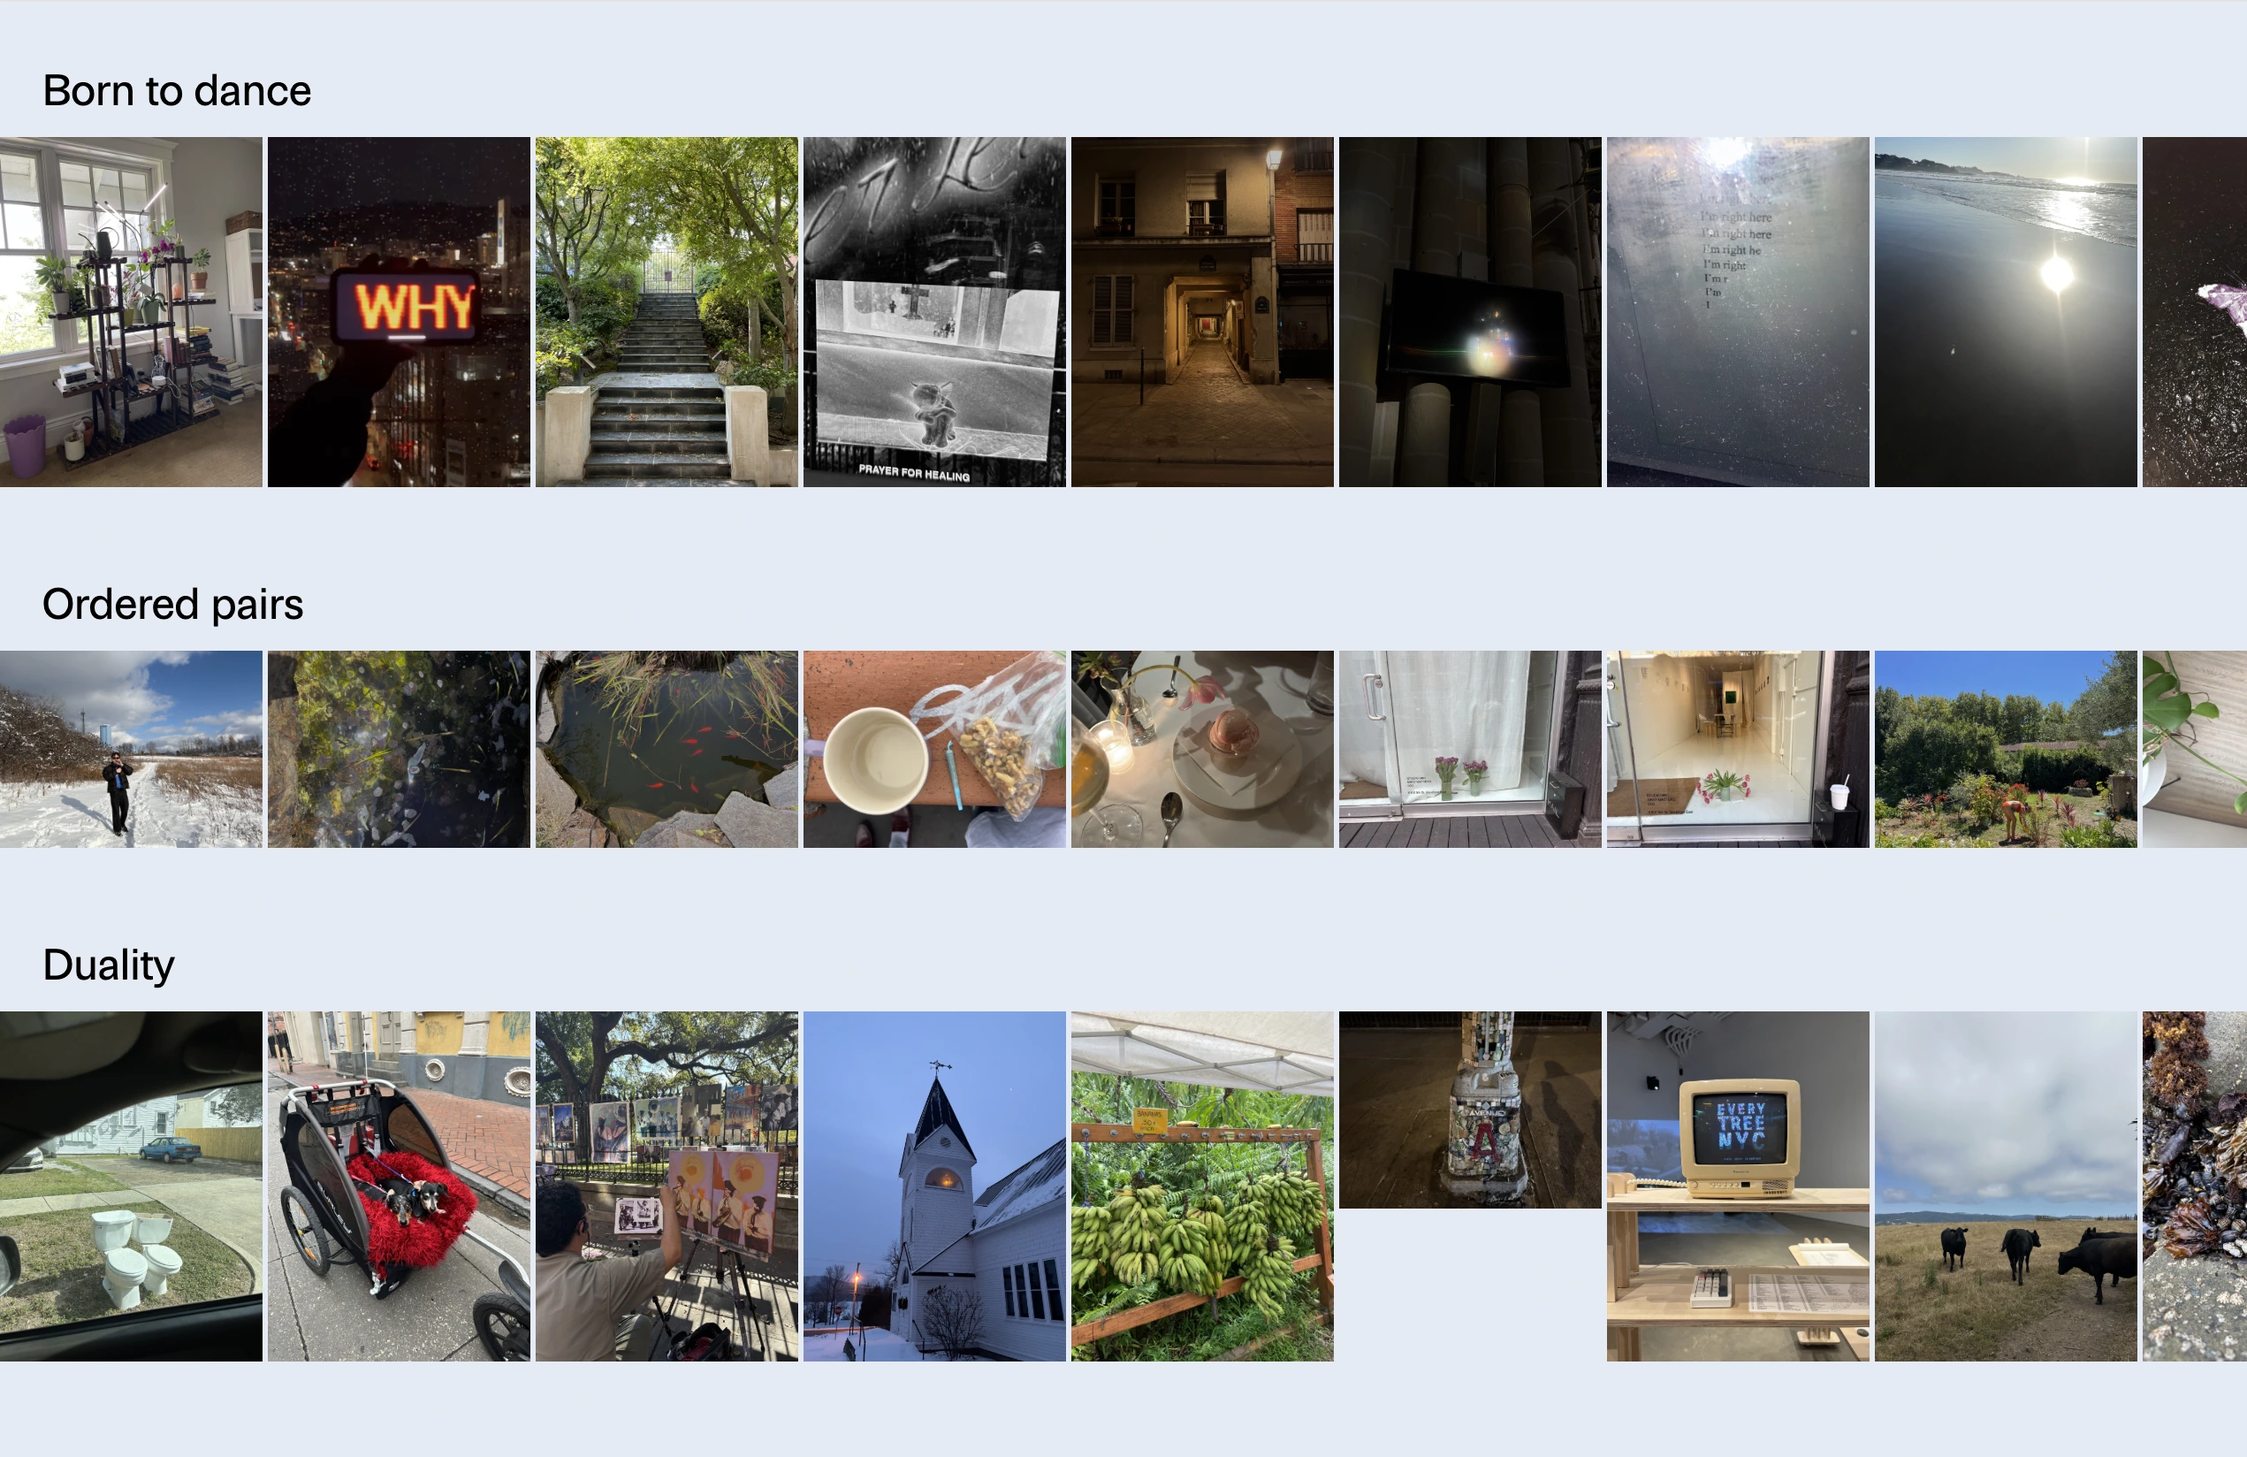
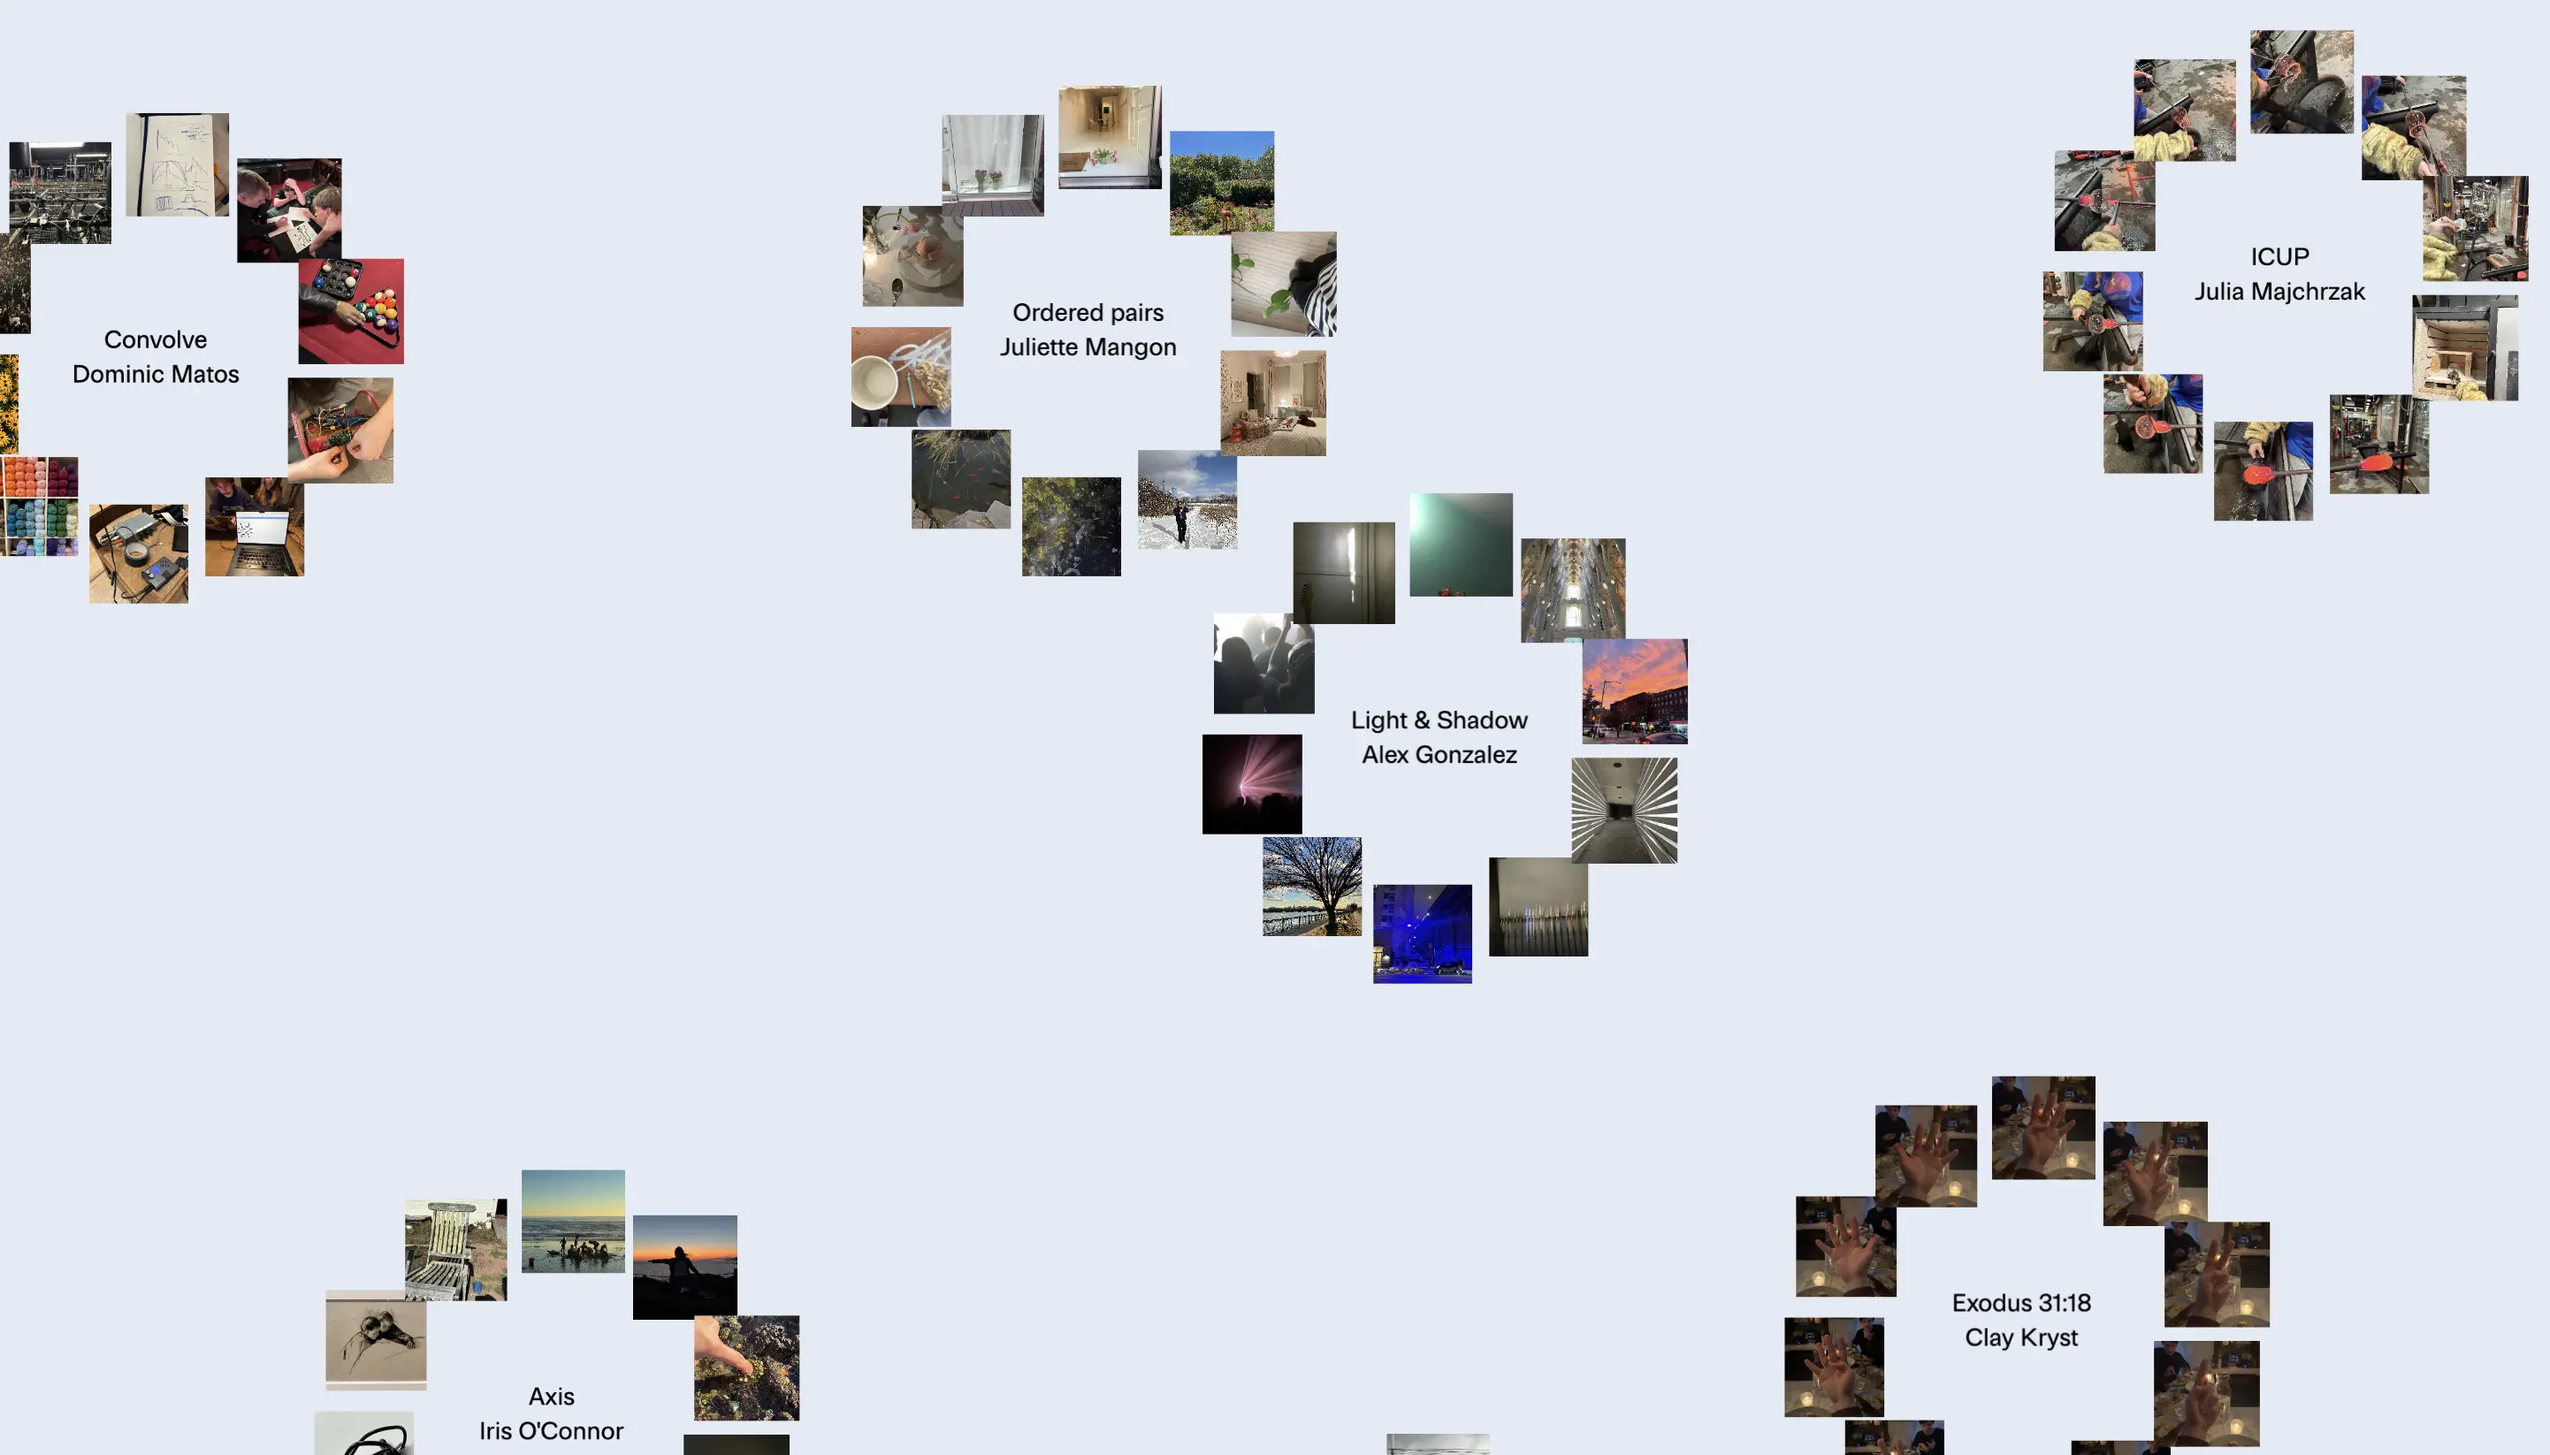
website stuff

diff --git a/media.html b/media.html
@@ -622,7 +622,6 @@
         <a href="websites.html">websites</a>
 
     <a href="paintings.html">paintings</a>
-    <a href="objects.html">objects</a>
     <a href="media.html" class="active">media</a>
 
     <a href="contact.html">contact</a>
@@ -709,7 +708,7 @@
               Ivan Pokidyshev is one of the first contemporary painters who really stuck with me. He uses thermography
               to photograph people and then translates those images into glowing painted figures. His work explores
               themes of science, life, love, and religion. Checkout his
-              instragram
+              instagram
               <a href="https://www.instagram.com/pokidyshev_art/" target="_blank"><strong>here</strong></a>.
             </div>
           </div>
@@ -726,7 +725,7 @@
               and imagination to create her work. Her paintings often feature human figures that are semi-transparent
               and abstract, blending into the surrounding space in a distinctive way.
               Just saw her exhibit at Shrine NYC!
-              Checkout her instragram
+              Checkout her instagram
               <a href="https://www.instagram.com/laurafootes/" target="_blank"><strong>here</strong></a>.
             </div>
           </div>
@@ -739,7 +738,7 @@
             <div class="media-desc">
               Her glass looking religious iconography is unreal. Also, she shares my love for neon
               green. Checkout her
-              instragram
+              instagram
               <a href="https://www.instagram.com/aunt.ag0ny/ " target="_blank"><strong>here</strong></a>.
             </div>
           </div>
@@ -779,11 +778,11 @@
           <div class="media-block">
             <div class="media-item-header" onclick="toggleMediaDesc(this)">
               <span class="media-number">10</span>
-              <span class="media-title">Urchin</span>
+              <span class="media-title">Days of Heaven</span>
               <span class="media-label">Film</span>
             </div>
             <div class="media-desc">
-              Fabulous performance by Frank Dillane. Great directorial debut for Harris Dickinson.
+              Insane. This is what I would want my movie to look like. 
             </div>
           </div>
 
@@ -809,7 +808,7 @@
               <span class="media-label">Film</span>
             </div>
             <div class="media-desc">
-              Wow I can't believe I hadn't seen this until this week. SO good.
+              Wow I can't believe I hadn't seen this. SO good.
             </div>
           </div>
 
@@ -843,12 +842,11 @@
           <div class="media-block">
             <div class="media-item-header" onclick="toggleMediaDesc(this)">
               <span class="media-number">15</span>
-              <span class="media-title">The L word Generation Q</span>
+              <span class="media-title">Hacks</span>
               <span class="media-label">TV</span>
             </div>
             <div class="media-desc">
-              Just finished this. Extremely surprised at how much I liked it. This is also criticism for the O.G. L word
-              but can we see character growth why do they keep making the same mistakes!? Good other than that.
+             Back on my list because of the new season. The lesbian episode was my favorite
             </div>
           </div>
 
@@ -892,6 +890,7 @@
           cafes
         </button>
        
+       
       </div>
 
       <div class="list-content">
@@ -912,7 +911,7 @@
         <div id="more" class="list-section">
           <div class="simple-list">
             <div class="simple-item">Finish more art</div>
-            <div class="simple-item">Cook at home</div>
+            <div class="simple-item">Be frugal</div>
             <div class="simple-item">Wake up early</div>
           </div>
         </div>
@@ -924,6 +923,17 @@
             <div class="simple-item">Call Me by Your Name (Film)</div>
             <div class="simple-item">Hacks (TV)</div>
             <div class="simple-item">Money Heist (TV)</div>
+
+          </div>
+        </div>
+        <div id="instagram" class="list-section">
+          <div class="simple-list">
+            <div class="simple-item">jujus.ootds</div>
+            <div class="simple-item"></div>
+            <div class="simple-item"></div>
+            <div class="simple-item"></div>
+            <div class="simple-item"></div>
+            <div class="simple-item"></div>
 
           </div>
         </div>
@@ -944,19 +954,19 @@
             <div class="in-section">
               <h2>In</h2>
               <div class="simple-list">
-                <div class="simple-item">Befriending your neighborhood</div>
-                <div class="simple-item">Statement necklaces</div>
+                <div class="simple-item">Skirts</div>
+                <div class="simple-item">Guac and pico de gallo</div>
                 <div class="simple-item">Writing your phone number on a napkin</div>
-                <div class="simple-item">Honey crisp apples</div>
-                <div class="simple-item">Individualism</div>
+                <div class="simple-item">Conversation</div>
+                <div class="simple-item">Contribution</div>
+                 <div class="simple-item">The sun</div>
               </div>
             </div>
             <div class="out-section">
               <h2>Out</h2>
               <div class="simple-list">
                 <div class="simple-item">Imported slideshow themes</div>
-                <div class="simple-item">Energy drinks</div>
-                <div class="simple-item">Talking about your dreams</div>
+                <div class="simple-item">Healthy candy</div>
                 <div class="simple-item">Selective accountability</div>
 
               </div>
@@ -982,10 +992,10 @@
               <div class="simple-list">
                 <div class="simple-item">Iced cappuccino with strawberry </div>
                 <div class="simple-item">Iced flat white with vanilla</div>
-                <div class="simple-item">Iced cortado with snickerdoodle</div>
+                <div class="simple-item">Iced cortado with snickerdoodle and whole milk</div>
                 <div class="simple-item">Iced quad shot with regular milk and honey</div>
                 <div class="simple-item">Iced cappuccino with cardamom or lavender</div>
-                <div class="simple-item">Iced flat white with cardamom</div>
+                <div class="simple-item">Iced flat white with vanilla</div>
               </div>
             </div>
           </div>
@@ -993,7 +1003,7 @@
       </div>
     </div>
     <div class="date">
-      <p class="date-text">Page last updated 5:16PM EST, April 19 2026.</p>
+      <p class="date-text">Page last updated 1:07AM EST, June 3 2026.</p>
 
     </div>
 

diff --git a/websites.html b/websites.html
@@ -400,7 +400,6 @@
         <a href="websites.html" class="active">websites</a>
 
         <a href="paintings.html">paintings</a>
-        <a href="objects.html">objects</a>
         <a href="media.html">media</a>
 
         <a href="contact.html">contact</a>
@@ -719,6 +718,54 @@
 
                     </div>
                 </li>
+                <li class="card">
+                    <div class="cardInner">
+                        <div class="cardTop">
+                            <div class="siteName">
+                                <a href="https://ineverseeyou.com/" target="_blank" rel="noopener noreferrer">
+                                    I never see you
+                                </a>
+                            </div>
+                            <div class="dates">
+                                <div class="actions">
+                                    <a class="ext" href="https://ineverseeyou.com/" target="_blank"
+                                        rel="noopener noreferrer">
+                                        Visit site
+                                        <svg class="icon" width="16" height="16" aria-hidden="true" focusable="false"
+                                            style="vertical-align: middle">
+                                            <use href="#icon-external"></use>
+                                        </svg>
+                                    </a>
+                                </div>
+                            </div>
+                        </div>
+
+                        <p class="desc">
+                            The digital exhibit for I never see you, a collective of creative individuals interested in
+                            art and technology across disciplines.
+                        </p>
+
+                        <div class="thumgrayrid" aria-label="Thumbnails">
+                            <a class="thumbLink" href="https://ineverseeyou.com/" target="_blank"
+                                rel="noopener noreferrer">
+                                <img class="thumbImg" src="assets/websites/insy-1.webp"
+                                    alt="fiftyhounds site screenshot" loading="lazy" />
+                            </a>
+                            <a class="thumbLink" href="https://ineverseeyou.com/" target="_blank"
+                                rel="noopener noreferrer">
+                                <img class="thumbImg" src="assets/websites/insy-2.webp"
+                                    alt="fiftyhounds site screenshot" loading="lazy" />
+                            </a>
+                            <a class="thumbLink" href="https://ineverseeyou.com/" target="_blank"
+                                rel="noopener noreferrer">
+                                <img class="thumbImg" src="assets/websites/insy-3.webp"
+                                    alt="fiftyhounds site screenshot" loading="lazy" />
+                            </a>
+
+                        </div>
+
+                    </div>
+                </li>
 
 
                 <li class="card">
@@ -771,49 +818,7 @@
                     </div>
                 </li>
 
-                <li class="card">
-                    <div class="cardInner">
-                        <div class="cardTop">
-                            <div class="siteName">
-                                <a href="https://ineverseeyou.com/" target="_blank" rel="noopener noreferrer">
-                                    I never see you
-                                </a>
-                            </div>
-                            <div class="dates">
-                                <div class="actions">
-                                    <a class="ext" href="https://ineverseeyou.com/" target="_blank"
-                                        rel="noopener noreferrer">
-                                        Visit site
-                                        <svg class="icon" width="16" height="16" aria-hidden="true" focusable="false"
-                                            style="vertical-align: middle">
-                                            <use href="#icon-external"></use>
-                                        </svg>
-                                    </a>
-                                </div>
-                            </div>
-                        </div>
-
-                        <p class="desc">
-                            The digital exhibit for I never see you, a collective of creative individuals interested in
-                            art and technology across disciplines.
-                        </p>
-
-                        <div class="thumgrayrid" aria-label="Thumbnails">
-                            <a class="thumbLink" href="https://ineverseeyou.com/" target="_blank"
-                                rel="noopener noreferrer">
-                                <img class="thumbImg" src="assets/websites/insy-1.webp"
-                                    alt="fiftyhounds site screenshot" loading="lazy" />
-                            </a>
-                            <a class="thumbLink" href="https://ineverseeyou.com/" target="_blank"
-                                rel="noopener noreferrer">
-                                <img class="thumbImg" src="assets/websites/insy-2.webp"
-                                    alt="fiftyhounds site screenshot" loading="lazy" />
-                            </a>
-
-                        </div>
-
-                    </div>
-                </li>
+                
 
                 <li class="card">
                     <div class="cardInner">

diff --git a/index.html b/index.html
@@ -212,7 +212,6 @@
     <a href="resume.html">resume</a>
     <a href="websites.html">websites</a>
     <a href="paintings.html">paintings</a>
-    <a href="objects.html">objects</a>
     <a href="media.html">media</a>
     <a href="contact.html">contact</a>
   </nav>

diff --git a/paintings.html b/paintings.html
@@ -331,7 +331,6 @@
             <a href="websites.html">websites</a>
 
     <a href="paintings.html" class="active">paintings</a>
-    <a href="objects.html">objects</a>
     <a href="media.html">media</a>
 
     <a href="contact.html">contact</a>

diff --git a/resume.html b/resume.html
@@ -442,7 +442,6 @@
     <a href="websites.html">websites</a>
 
     <a href="paintings.html">paintings</a>
-    <a href="objects.html">objects</a>
     <a href="media.html">media</a>
 
 
